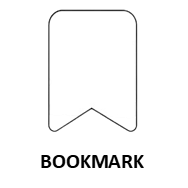
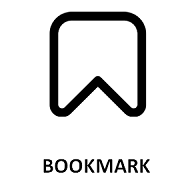
haha

diff --git a/main.html b/main.html
@@ -71,7 +71,7 @@
             <div class="p-3 border bg-white"><a href ="events.html"><img src="./images/event1.png" alt="image"></a></div>
           </div>
           <div class="col-6">
-            <div class="p-3 border bg-white"><a href ="settings1.html"><img src="./images/friends1.png" alt="image"></a></div>
+            <div class="p-3 border bg-white"><a href ="bookmarks.html"><img src="./images/bookmark1.png" alt="image"></a></div>
           </div>
           <div class="col-6">
             <div class="p-3 border bg-white"><a href ="settings1.html"><img src="./images/settings.png" alt="image"></a></div>
